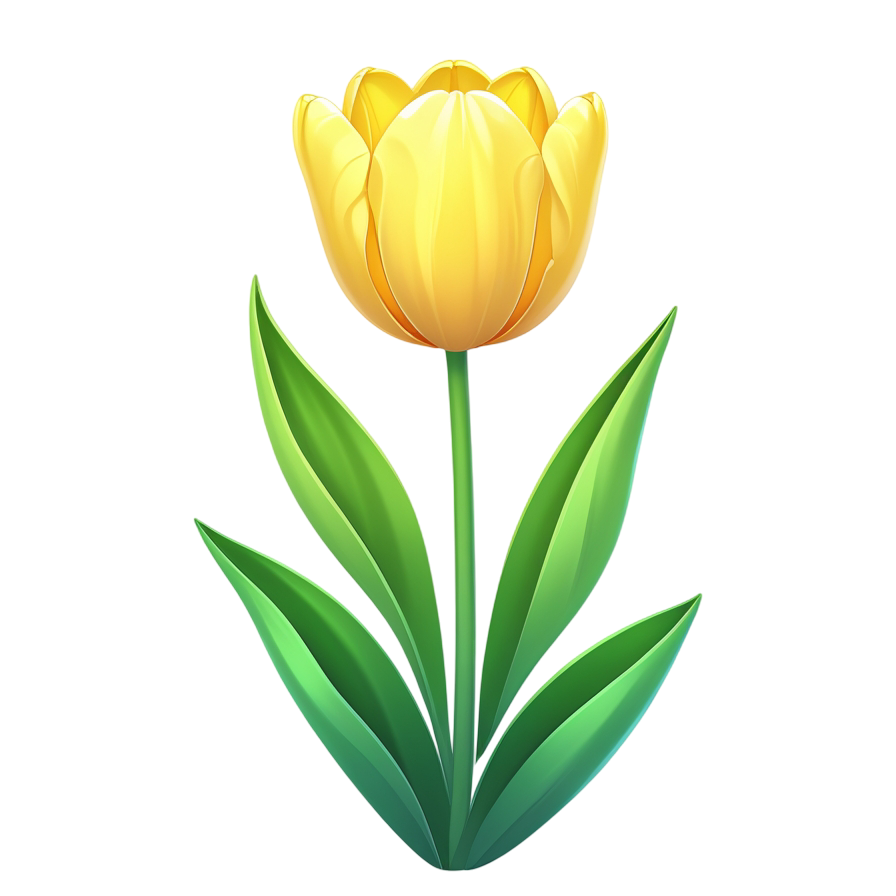
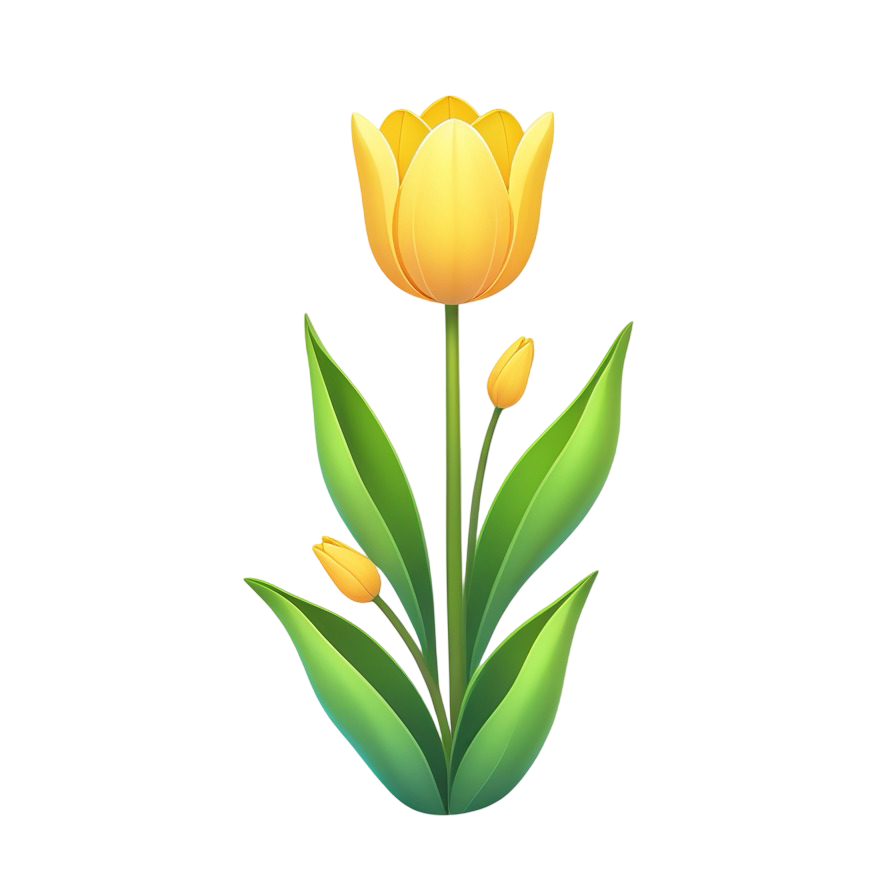
mapping flowers

Changed region(s): [[0.2188, 0.0625, 0.7812, 0.9688]]

diff --git a/lib/flower-images.ts b/lib/flower-images.ts
@@ -13,6 +13,12 @@ const FLOWER_IMAGES: Record<string, ImageSourcePropType> = {
   "hibiscus.png":    require("../flowers/hibiscus.png"),
   "Poppy_v2.png":    require("../flowers/Poppy_v2.png"),
   "Daffodil.png":    require("../flowers/Daffodil.png"),
+  "yellow_tulip.png":    require("../flowers/yellow_tulip.png"),
+    "sunflower.png":    require("../flowers/sunflower.png"),
+  "red_tulip.png":    require("../flowers/red_tulip.png"),
+  "lily.png":         require("../flowers/lily.png"),
+
+
 };
 
 export function flowerImage(imageUrl: string): ImageSourcePropType {

diff --git a/docs/superpowers/plans/2026-05-06-garden-inventory-plant.md b/docs/superpowers/plans/2026-05-06-garden-inventory-plant.md
@@ -36,6 +36,8 @@ const FLOWER_IMAGES: Record<string, ImageSourcePropType> = {
   "hibiscus.png":    require("../flowers/hibiscus.png"),
   "Poppy_v2.png":    require("../flowers/Poppy_v2.png"),
   "Daffodil.png":    require("../flowers/Daffodil.png"),
+  "yellow_tulip.png":    require("../flowers/yellow_tulip.png"),
+
 };
 
 export function flowerImage(imageUrl: string): ImageSourcePropType {
